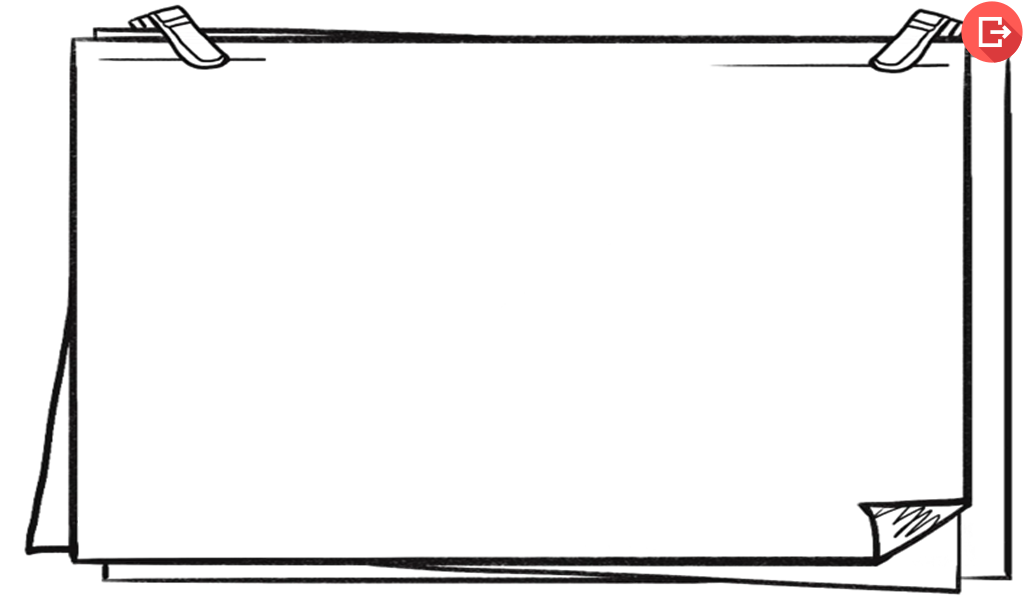
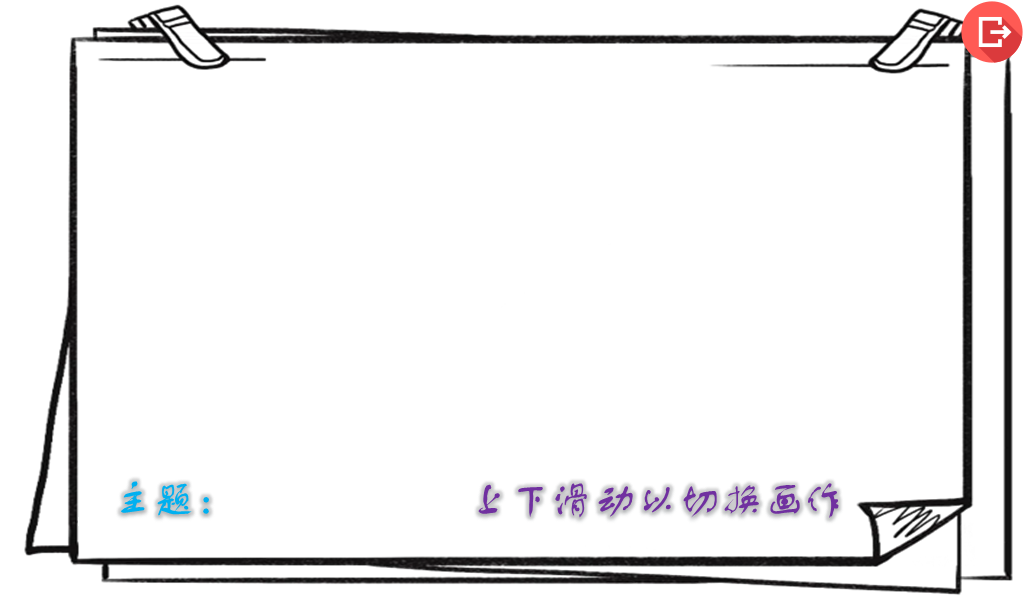
doing collection

Changed region(s): [[0.4688, 0.78, 0.8438, 0.87], [0.0938, 0.78, 0.2188, 0.87]]

diff --git a/lab6/config.h b/lab6/config.h
@@ -201,7 +201,7 @@ static int bluetooth_tty_init(const char *dev);
 #define IMAGE_TOPIC_Y 512
 #define IMAGE_FONTSIZE 40
 #define IMAGE_PAGEID_X 12
-#define IMAGE_PAGEID_Y 15
+#define IMAGE_PAGEID_Y 58
 
 static void write_png_file(const char *filename, int width, int height, unsigned char *image_data);
 

diff --git a/lab6/main.c b/lab6/main.c
@@ -267,7 +267,7 @@ static void draw_collection(){
 	char img_path[256];
 	sprintf(img_path, "./collections/%s", png_files[png_now]);
 	img = fb_read_png_image(img_path);
-	fb_draw_image(IMAGE_X1, IMAGE_Y1, img, 0);
+	fb_draw_image(IMAGE_X, IMAGE_Y, img, 0);
 	fb_update();
 	fb_free_image(img);	
 }
